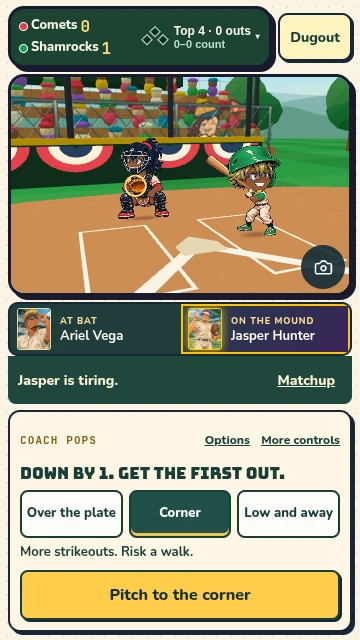
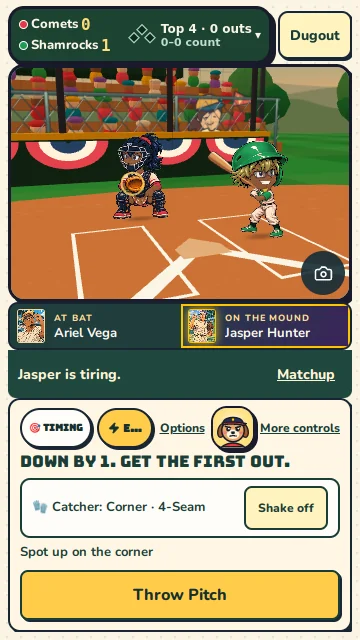
Close the complete hobby album and verified live-control repairs (TASK-097, TASK-103)

diff --git a/docs/TASKS.md b/docs/TASKS.md
@@ -277,10 +277,10 @@
 | TASK-094 | DONE | 3-Audience First-Time Hook & Quality-of-Life Overhaul: (10yo) discoverable `🎯 Timing` pill in Guided `FirstAtBat` + collapsible Smart Watch rules; (14yo) immediately visible illustrated `Off the Clock` teammate card in post-game recap (with Sandlot Postcard portrait/initials fallback) + live tappable Dugout Mascot Buddy + 1-tap `⭐ Star Favorite` & `🎨 Design Jerseys` between-game spotlights; (18–99 fan) `Due Up: R · L · L` + reliever Pitch Mix in Quick Bullpen Drawer & Pro Bullpen Phone + optional Pro `HOT` warmup `+2 CTL` bonus + 3-Mode Front Office Assistant GM (`Auto` / `Ask Me` / `Manual`) across Settings, Clubhouse HQ, Roster & Pre-Game. |
 | TASK-095 | DONE | Present hobbies awaiting artwork as signed player postcards across cards, recaps and the career album. |
 | TASK-096 | DONE | Off the Clock postcard batch 1. Illustrate the four remaining featured stories and author and illustrate 21 more player memories. Review the WebP prints in the album. |
-| TASK-097 | IN_PROGRESS | All 3,000 catalog players have a personal Off the Clock clue, story and 560 × 700 WebP. Each postcard and its saved quote were checked in the phone and desktop album. The repository-wide browser suite still reports live-game failures. |
+| TASK-097 | DONE | All 3,000 catalog players have a personal Off the Clock clue, story and 560 × 700 WebP. Each postcard and its saved quote were checked in the phone and desktop album. Offline checks cover cached artwork, unseen prints and stories from earlier saves. |
 | TASK-098 | DONE | Living 3D Ballpark Atmosphere, Pitch Clarity & Impact Juice: synced `ballpark.update(elapsedSec, crowdExcitement)` and dt-based cloud drift, wired live weather (`parkWeather.ts` — Sunny / Golden Sunset / Night / Drizzle + wind-animated pennants) into `LiveGameCanvas`, replaced catcher target vertical stretch with `setCatchHeight` posture + faint reception ring, added batter swing follow-through, HR/K celebrations, 60ms impact hitstop (`impactTiming.ts`), 3D stadium HR fireworks (`stadiumCelebration.ts`), minimum screen-space contact callout legibility, behind-the-catcher default batting view (`over_shoulder_batter` across preview, idle, pitch delivery, and contact), and deduplicated signature power callouts. |
 | TASK-099 | DONE | Unified Zero-Scroll Mobile Cockpit & Desktop Broadcast Studio: unified Guided and Full Live games into a `100dvh` mobile cockpit with bottom thumb dock, contextual action chips, tappable mascot, and one unified `LiveBottomSheet` Tactics drawer (auto-closing on game completion); added a 2-column `1280×800` Desktop Broadcast Studio with accessible keyboard shortcuts (`Space`, `1/2/3`, `B`, `S`, `H`, `T`, `Esc`), `844×390` landscape 2-column layout, and pitch/swing animation lock preventing double-fires until each pitch or play completes. |
 | TASK-100 | DONE | First-60s 3-Audience Hook & Collectibles UI: 3-tab above-the-fold `PostGameSummaryModal` (`Highlights`, `Clubhouse`, `Box Score`), pull-first 3D corner-peel shimmer `FoilPackModal` with `relicPrint.ts` WebP artwork lookup, deterministic `375–465 FT` `ArcadeDerbyModal` with Hot Streak multiplier, standalone TV `StrikeZoneOverlay` K-Zone plot, and human-team-aware `DugoutCheerBubble` teammate cheers. |
 | TASK-101 | DONE | 14 Collectible WebP Prints & 4-Viewport Visual Audit: generated and visually reviewed 6 die-cut Celebration Stickers (`src/art/stickers/prints/*.webp`) and 8 holographic 1994 Foil Pack Relics (`src/art/relics/prints/*.webp`) wired into `CelebrationStickerToast`, `TrophyCaseModal`, and `FoilPackModal`, plus a 4-viewport Playwright visual audit (`tests/e2e/councilVisualAudit.spec.ts` covering `360×640`, `390×844`, `844×390`, and `1280×800`). |
 | TASK-102 | DONE | Off-Diamond Mobile & Desktop Ergonomics: streamlined thumb reach, responsive grids, and zero-overflow polish across `RosterLineupScreen`, `UniformDesignerPanel`, `ClubHubScreen`, `LeagueScreen`, and `ClubCreatorScreen` with regression tests (`OffDiamondErgonomics.test.tsx`, `firstAtBat.layout.test.ts`). |
-| TASK-103 | IN_PROGRESS | Repair the live-game controls and verify the guided handoff, Tactics sheet, pitching controls and roster navigation on phone and desktop. |
+| TASK-103 | DONE | The guided batter handoff keeps the primary action in place in landscape. On phones, More controls opens Tactics in one tap and closing it keeps the pitch or swing controls beside the field. The browser suite covers pitching changes, the next pitch from the diamond and roster navigation on phone and desktop. |

diff --git a/README.md b/README.md
@@ -26,7 +26,7 @@ Choose **Contact** or **Power** to set the batter’s stance, then tap **Swing**
 
 On defense, pitching defaults to **Simple mode**: your catcher calls the pitch and spot (including elevated **High Heat** fastballs in two-strike counts), with an optional **Shake off** pill to cycle signs while watching the 3D catcher shift behind the plate. Switch anytime to **Normal mode** (**Over Plate**, **Corner**, or **Low Chase** with automatic location-matched pitch selection) or **Advanced mode** (location + every pitch in your pitcher’s arsenal). **Matchup** opens scouting, and **Options** holds pitching mode, timing and signature powers. On a phone, **More controls** opens the Tactics sheet for speed, timing, simulation and defensive adjustments. Close it to keep the pitch or swing controls beside the field. Tap **Tactics** to reopen it. Bringing in a reliever returns you to the diamond for their first pitch. Rotate for the field on the left and the calls on the right. Open the roster through **Dugout** on a phone or **Roster** in the desktop sidebar. **Play Ball** returns to the same game.
 
-| Pitching on a compact phone | Tactics in landscape |
+| Pitching on a compact phone | Calling a pitch in landscape |
 | --- | --- |
 | ![Jasper aims at the corner with the field, count and pitch button visible on a 360 by 640 phone](./docs/screenshots/compact-pitch.webp) | ![The complete field, pitch call and Tactics button side by side at 844 by 390](./docs/screenshots/phone-landscape-pitch.webp) |
 
@@ -129,7 +129,7 @@ npm run test:e2e
 
 Live PWA: **https://nicholas-wagner.github.io/mini-baseball-manager/**
 
-Pushing to `main` automatically runs [`.github/workflows/deploy-pages.yml`](./.github/workflows/deploy-pages.yml), building the offline Workbox Service Worker (`~4.6 MB` core precache with `CacheFirst` runtime caching for manga portrait PNGs) and publishing to GitHub Pages. Open the live HTTPS URL in Android Chrome and tap **Install App** to play fullscreen offline!
+Pushing to `main` builds the offline service worker and publishes the game to GitHub Pages. The app precaches about 6.1 MiB, including all hobby stories. Manga portrait PNGs and hobby postcard WebPs are cached as you view them. Open the live site in Android Chrome and tap **Install App** to play fullscreen offline. [Deployment workflow](./.github/workflows/deploy-pages.yml)
 
 ---
 
@@ -137,9 +137,9 @@ Pushing to `main` automatically runs [`.github/workflows/deploy-pages.yml`](./.g
 
 This repository is structured so both **human contributors** and **AI coding agents** can immediately understand the architecture, invariants, and exact next TDD ticket:
 
-- **[PLAN.md](./PLAN.md)** — 10X Master Roadmap (`M0`–`M10`, 73 completed roadmap tasks) and Game Day follow-ups through TASK-102.
+- **[PLAN.md](./PLAN.md)** — 10X Master Roadmap (`M0`–`M10`, 73 completed roadmap tasks) and Game Day follow-ups through TASK-103.
 - **[docs/SIMULATION_MATH.md](./docs/SIMULATION_MATH.md)** — Full pitch-by-pitch seeded dice-roll formulas, all 15 attribute effects, National/Capstone powers, Weather, Shifts, Mind Games & Nemesis math.
-- **[docs/TASKS.md](./docs/TASKS.md)** — Atomic, dependency-ordered TDD task queue through **TASK-102**.
+- **[docs/TASKS.md](./docs/TASKS.md)** — Atomic, dependency-ordered TDD task queue through **TASK-103**.
 - **[docs/ARCHITECTURE.md](./docs/ARCHITECTURE.md)** — Canonical TypeScript interfaces, `PlayEvent` stream contracts, and 3D ballpark coordinates.
 - **[docs/DESIGN_SYSTEM.md](./docs/DESIGN_SYSTEM.md)** — Exact 90s color tokens, typography, touch targets, and chibi scale units.
 - **[AGENTS.md](./AGENTS.md)** — AI Agent onboarding guide, hard architectural invariants, and Definition of Done.

diff --git a/PLAN.md b/PLAN.md
@@ -48,12 +48,13 @@ TASK-088 keeps the Opening Day Customize button at the 44-pixel touch minimum on
 - [x] TASK-095 gives hobby stories a signed postcard with portrait postage or player initials when the art is unavailable.
 
 - [x] TASK-096 adds 25 illustrated Off the Clock postcards, bringing the album to 30 of 3,000 players.
-- [/] TASK-097 adds a personal illustrated memory for each of the 3,000 catalog players across 78 hobbies. Every postcard passed phone and desktop album checks. Earlier saved stories keep their original wording. Repository-wide browser verification remains open.
+- [x] TASK-097 adds a personal illustrated memory for each of the 3,000 catalog players across 78 hobbies. Every postcard passed phone and desktop album checks. Earlier saved stories keep their original wording.
 - [x] TASK-098 brings the 3D ballpark alive with dynamic weather/lighting/wind pennants, dt-synced clouds & crowd excitement, 60ms barrel hitstop, 3D home run fireworks, clean catcher target posture, and a default behind-the-catcher batting camera.
 - [x] TASK-099 unifies mobile live play into a zero-scroll `100dvh` thumb cockpit with one Tactics bottom sheet, adds a 2-column Desktop Broadcast Studio with keyboard shortcuts (`Space`, `1/2/3`, `B`, `S`, `H`, `T`, `Esc`), and locks Swing/Throw Pitch controls until each pitch or play completes.
 - [x] TASK-100 upgrades the first-60s 3-audience hook with a 3-tab Post-Game modal (`Highlights` / `Clubhouse` / `Box Score`), 3D corner-peel Foil Pack reveals, deterministic HR Derby distance & Hot Streak rewards, a standalone TV K-Zone `StrikeZoneOverlay`, and live teammate `DugoutCheerBubble` reactions.
 - [x] TASK-101 adds 14 collectible retro WebP prints (6 die-cut Celebration Stickers + 8 holographic 1994 Foil Pack Relics) wired into toast/album/pack modals alongside a 4-viewport Playwright visual audit (`360×640`, `390×844`, `844×390`, `1280×800`).
 - [x] TASK-102 polishes off-diamond mobile & desktop ergonomics across Roster, Uniform Studio, Clubhouse HQ, League Standings, and Club Creator.
+- [x] TASK-103 keeps **Swing** and **Next batter** in the same spot in landscape, opens **Tactics** in one tap on phones and returns the manager to the field after a pitching change.
 
 ## The 10X Vision — What Makes This a Cult Classic
 
